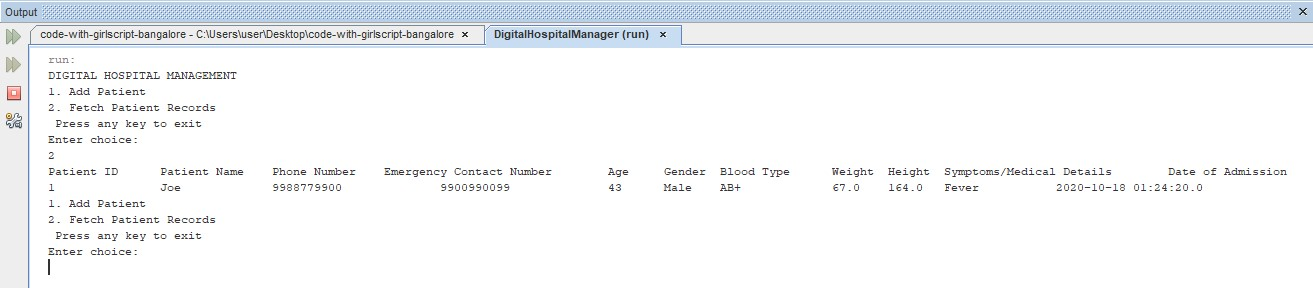
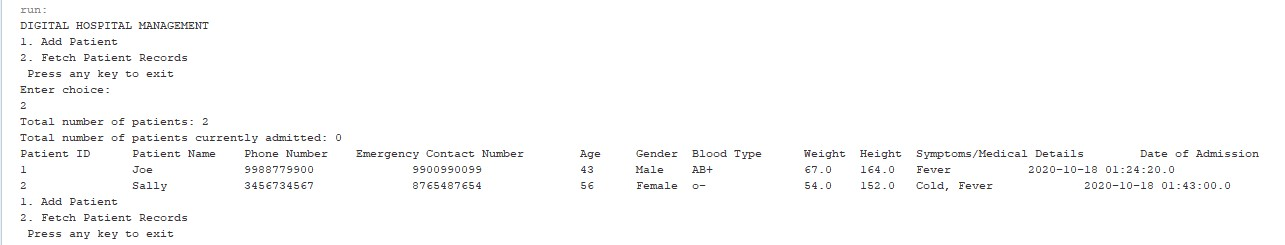
Added patient count functionality

diff --git a/Easy/4. Digital Hospital Manager/solutions/Prachi-05_Prachi/DigitalHospitalManager.java b/Easy/4. Digital Hospital Manager/solutions/Prachi-05_Prachi/DigitalHospitalManager.java
@@ -52,6 +52,12 @@ public class DigitalHospitalManager {
                 ResultSet.TYPE_SCROLL_INSENSITIVE, 
                 ResultSet.CONCUR_READ_ONLY
             );
+            rs = stmt.executeQuery("SELECT count(*) as count from PatientRecord");
+            rs.next();
+            System.out.println("Total number of patients: "+ rs.getInt("count"));
+            rs = stmt.executeQuery("SELECT count(*) as count from PatientRecord where admissiondate = CURRENT_TIMESTAMP ");
+            rs.next();
+            System.out.println("Total number of patients currently admitted: "+ rs.getInt("count"));
             rs = stmt.executeQuery("SELECT * FROM PatientRecord");
             if(rs.next()){
                 rs.previous();
@@ -103,7 +109,7 @@ public class DigitalHospitalManager {
         try {
             Class.forName("com.mysql.cj.jdbc.Driver");
             
-            con = DriverManager.getConnection("jdbc:mysql://localhost:3306/digitalhospitalmanager", "root", "");
+            con = DriverManager.getConnection("jdbc:mysql://localhost:3306/digitalhospitalmanager", "root", "alohomora");
             stmt = con.createStatement();
             stmt.execute("INSERT INTO PatientRecord VALUES(0,'"+name+"','"+phone+"','"+emergency+"',"+age+",'"+gender+"','"+blood+"',"+
                     weight+","+height+",'"+symptoms+"',CURRENT_TIMESTAMP);");
